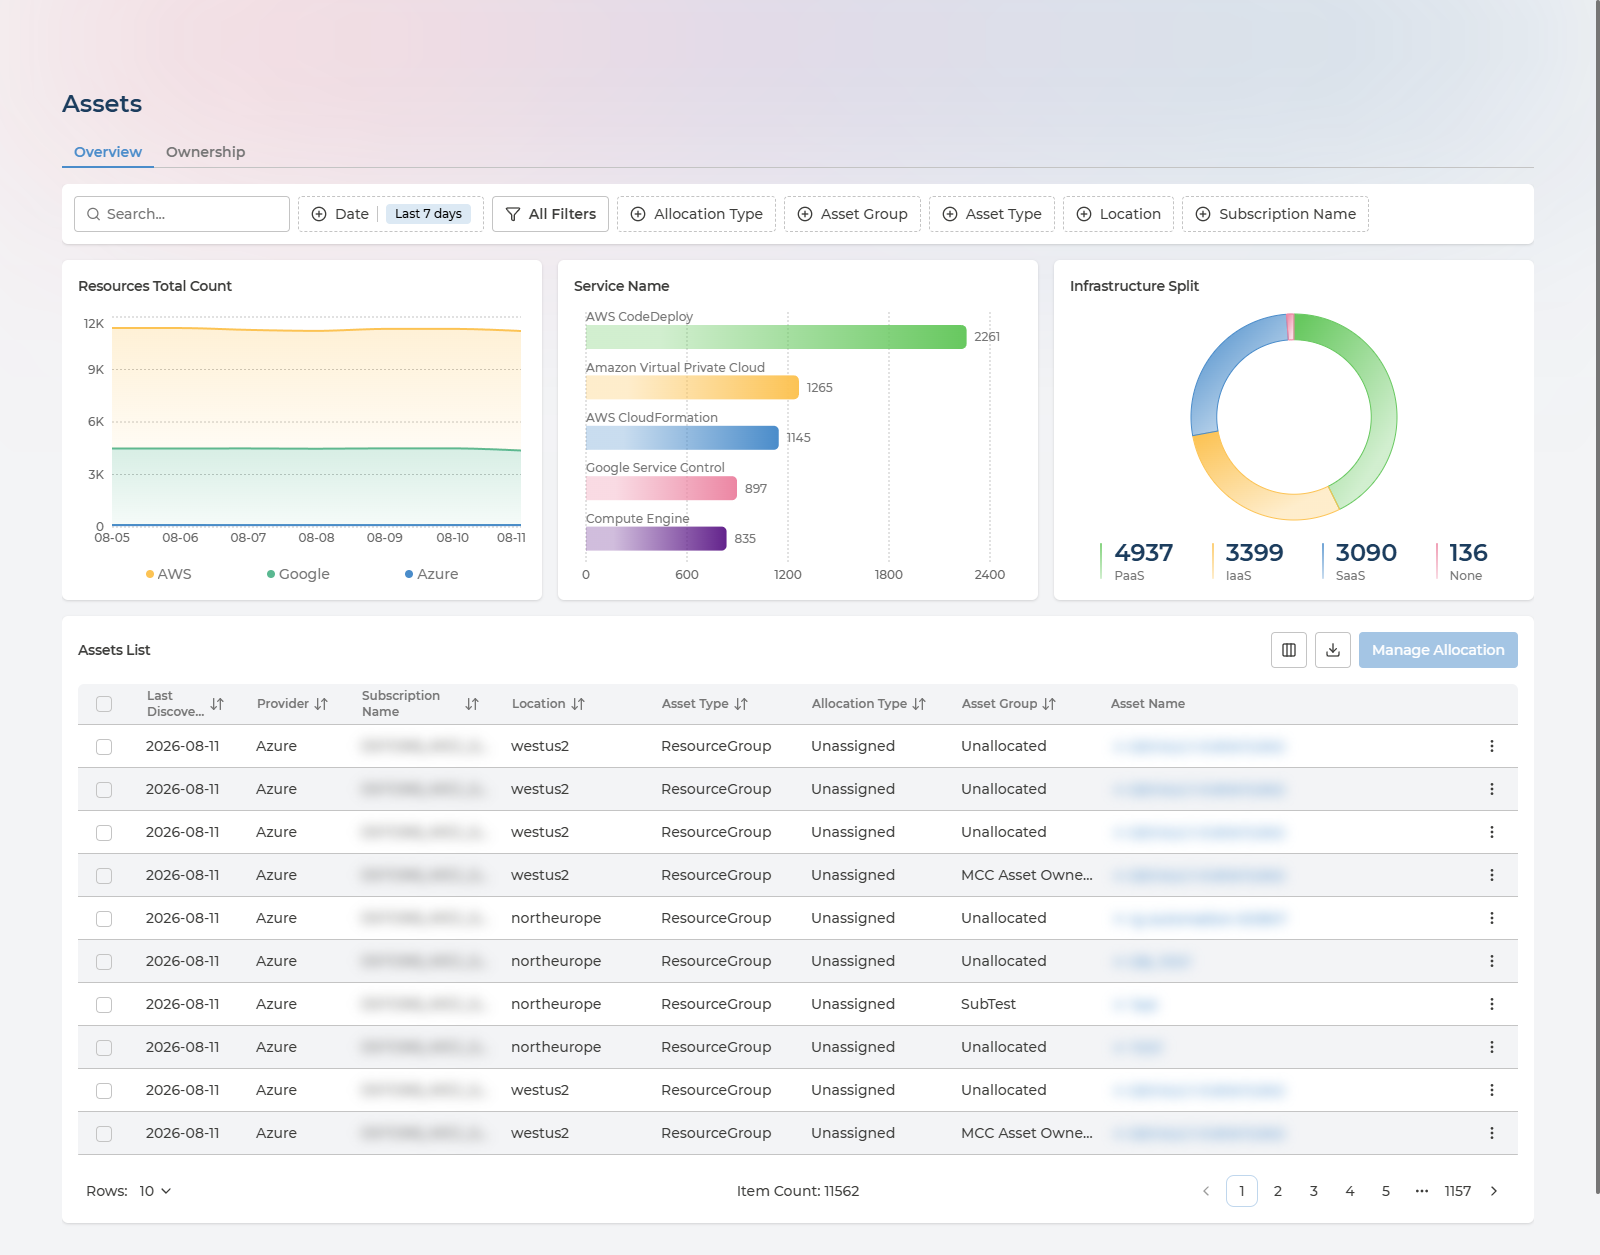
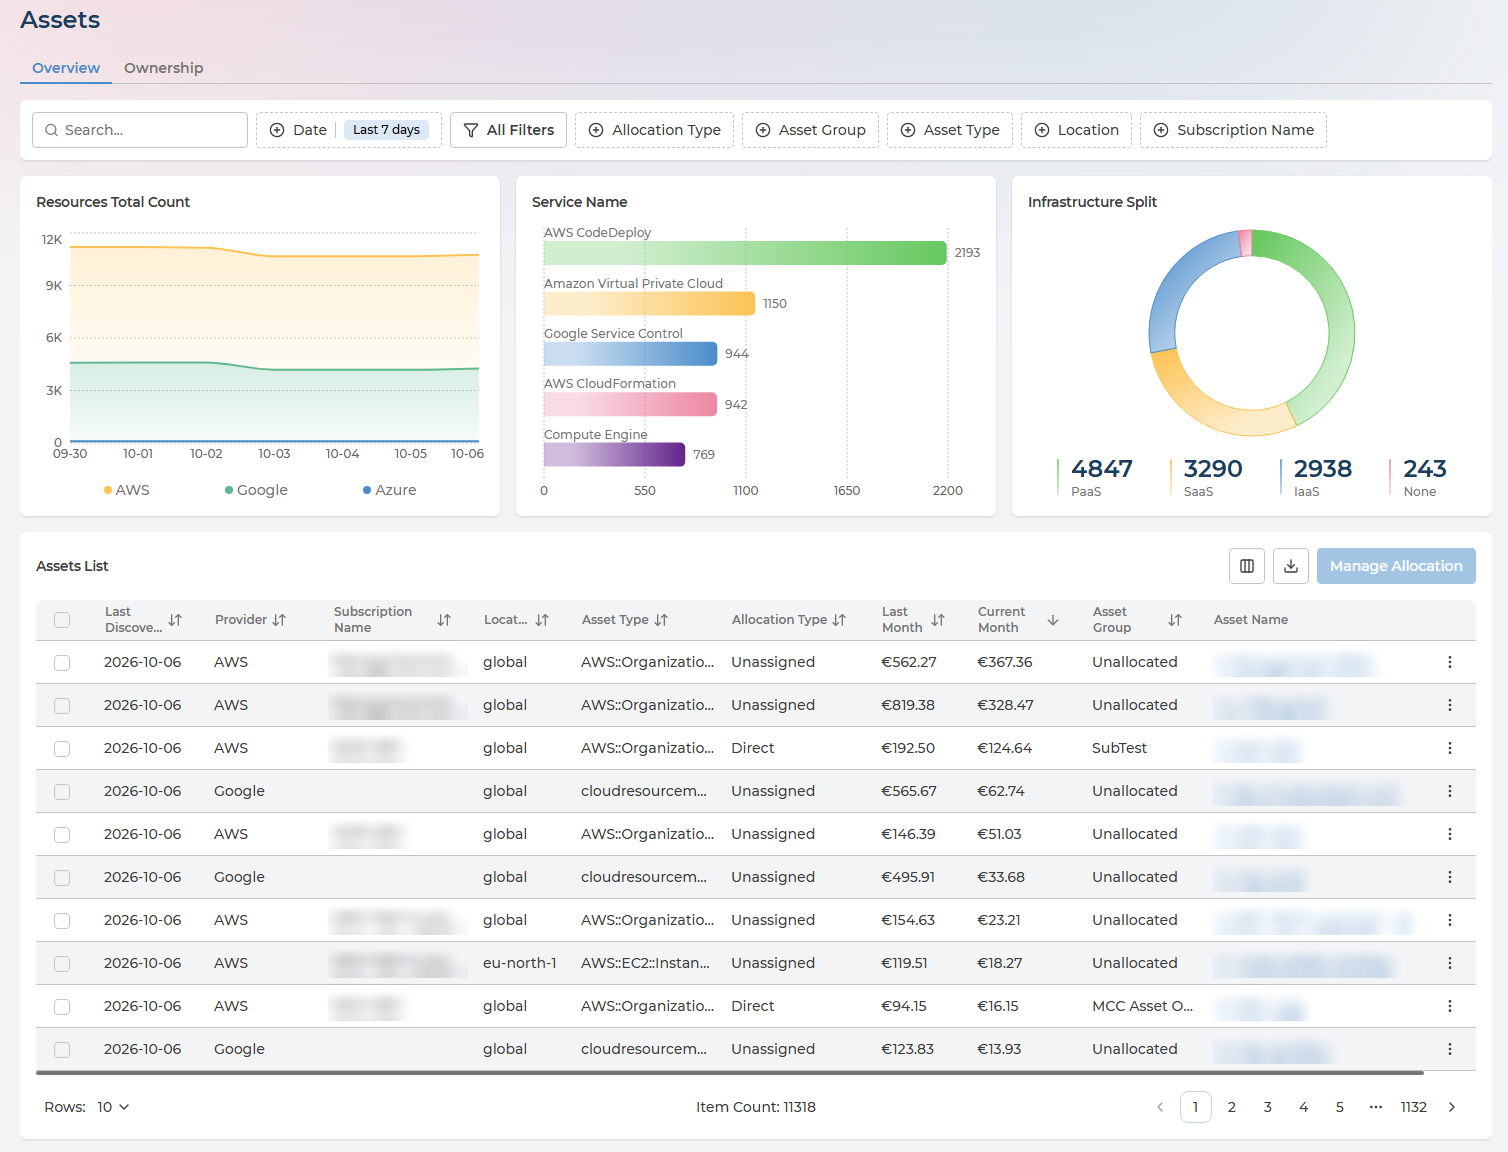
Assets: document cost columns, new filters and the date filter
Add the Last Month and Current Month cost columns, the All Filters
panel with tag key and value filtering, and the Date filter's presets
and Premium custom range. Replace the Assets screenshot with a current
one, subscription and asset names blurred.

Changed region(s): [[0.0, 0.0, 1.0, 0.9688], [0.5298, 0.4375, 0.561, 0.4688], [0.0312, 0.4688, 0.0623, 0.5]]

diff --git a/pulse-ecosystem/cloud-inventory.md b/pulse-ecosystem/cloud-inventory.md
@@ -57,7 +57,7 @@ Three selectors sit in the header and apply everywhere:
 | **Company** | Switches the active organisation when your tenant holds more than one. |
 | **Currency** | Re-states all monetary values - costs, savings, budgets - in your preferred currency. |
 
-Most pages also carry a **date range** control. Recommendations, Tags, Locations and Security Alerts offer presets - Last 7 Days, Last 30 Days, Last 90 Days - while Assets and Costs take a custom range.
+Most pages also carry a **date range** control. Recommendations, Tags, Locations and Security Alerts offer presets - Last 7 Days, Last 30 Days, Last 90 Days. Assets offers the same presets, and a custom range with Pulse Premium. Costs takes a custom range.
 
 Every table behaves the same way: free-text search, sortable columns, a column show/hide menu, pagination, and **CSV export of the whole result set** rather than just the page on screen.
 
@@ -212,38 +212,48 @@ Alert rows within a budget add: Type, Threshold, Amount, Email.
 
 An asset is anything Pulse discovers in your clouds - not only virtual machines, databases and IP addresses, but the containers too: subscriptions, accounts, projects and resource groups. The single-asset example further down is an AWS account, which is why it carries costs and recommendations of its own.
 
-![Assets page Overview tab with three charts above the assets list](../assets/images/cloud-inventory/assets.png)
+![Assets page Overview tab with three charts above the assets list, which includes Last Month and Current Month cost columns](../assets/images/cloud-inventory/assets.png)
 
 Three charts sit above the list: **Resources Total Count** over time, **Service Name** showing which services hold the most resources, and **Infrastructure Split** by asset category. An estate heavily weighted toward IaaS is a signal that some of it could move to managed or SaaS equivalents.
 
+### What each asset costs
+
+The **Assets List** shows each asset's cost next to its details: **Last Month** and **Current Month**. Both columns sort, so the most expensive resources are one click away, and both export to CSV as plain numbers. A cost cell is empty when Pulse holds no cost data for that asset.
+
 ### Filtering the inventory
 
-The **Assets List** is the part you will live in, and the filters are what turn 11,000 rows into an answer:
+The **Assets List** is the part you will live in, and the filters are what turn 11,000 rows into an answer. The most used ones sit in the bar above the charts:
 
 | Filter | What it narrows to |
 | --- | --- |
 | **Search** | Free text across asset names |
-| **Date** | The discovery window - see below |
+| **Date** | The assets that were alive during a range - see below |
 | **Allocation Type** | How an asset got its owner: direct, tag-based, inherited or unassigned |
 | **Asset Group** | One ownership group, so you see only what a given team is responsible for |
 | **Asset Type** | A kind of resource - virtual machines, resource groups, public IP addresses |
 | **Location** | A single cloud region |
 | **Subscription Name** | One subscription, account or project |
 
-**Date deserves a word, because it is not the filter you might assume.** It filters on when Pulse last *discovered* each asset, not when the asset was created. The default recent window therefore answers "what exists right now" - a live view of the estate. Widening it brings back resources seen earlier in the period, including ones that have since been deleted, which is how you check what a subscription looked like last month or confirm something is really gone.
+**All Filters** opens the full set. Besides the ones above, it adds **Cloud Asset Category**, **Cloud Asset Service**, **Cloud Asset Service Model**, **Cloud Subscription Id**, **Data Store** and **Tag**. **Tag** filters on tag key and value pairs, such as `owner : Devoteam`, so you can narrow the list to everything carrying a given tag.
+
+![The All Filters panel listing every asset filter, with a tag filter set to owner : Devoteam](../assets/images/cloud-inventory/assets-all-filters.png)
+
+**Date deserves a word, because it is not the filter you might assume.** It shows only the assets that were alive within the range you set, not the ones created in it, and it applies to the three charts as well as the list. The default, **Last 7 Days**, therefore answers "what exists right now" - a live view of the estate. **Last 30 Days** and **Last 90 Days** bring back resources that were alive earlier in the period, including ones that have since been deleted, which is how you check what a subscription looked like last month or confirm something is really gone. With Pulse Premium you can also set a custom range, by typing a **Start Date** and **End Date** or picking both on the calendar.
+
+![The Date filter open, with the Last 7, 30 and 90 days presets on the left and a custom range picked on the calendar](../assets/images/cloud-inventory/assets-date-filter.png)
 
 Two row actions save the most time: **View Cloud Resource** opens the resource in its provider's own console, and **Copy ID** puts the identifier on your clipboard.
 
 <div class="takeaway" markdown="block">
-**What to do with it.** Answer the questions that otherwise need three consoles: how many resources of this type exist, where, and in whose subscription. Use it as the authoritative list for audits, migration planning and licence counts. Filter by Allocation Type to find assets nobody owns, and by Location to check nothing has appeared in a region you do not permit. Export the filtered list to CSV to feed a CMDB, ticket or spreadsheet elsewhere. Watch **Infrastructure Split** over time: an estate drifting toward IaaS is accumulating operational work that PaaS or SaaS equivalents would remove.
+**What to do with it.** Answer the questions that otherwise need three consoles: how many resources of this type exist, where, in whose subscription, and what they cost. Sort by **Current Month** to find the resources driving this month's spend. Use it as the authoritative list for audits, migration planning and licence counts. Filter by Allocation Type to find assets nobody owns, by Location to check nothing has appeared in a region you do not permit, and by Tag to check what a tag actually covers. Export the filtered list to CSV to feed a CMDB, ticket or spreadsheet elsewhere. Watch **Infrastructure Split** over time: an estate drifting toward IaaS is accumulating operational work that PaaS or SaaS equivalents would remove.
 </div>
 
 <details markdown="block" class="reference-box">
   <summary>Columns in the assets list</summary>
 
-Last Discovery, Provider, Subscription Name, Location, Asset Type, Allocation Type, Asset Group, Asset Name.
+Last Discovery, Provider, Subscription Name, Location, Asset Type, Last Month, Current Month, Asset Group, Asset Name.
 
-The Subscription column is labelled with the terminology of the selected provider - subscription, account or project. Further columns, including Asset ID, are available from the column show/hide menu.
+The Subscription column is labelled with the terminology of the selected provider - subscription, account or project. Further columns, including Allocation Type and Asset ID, are available from the column show/hide menu.
 
 </details>
 
